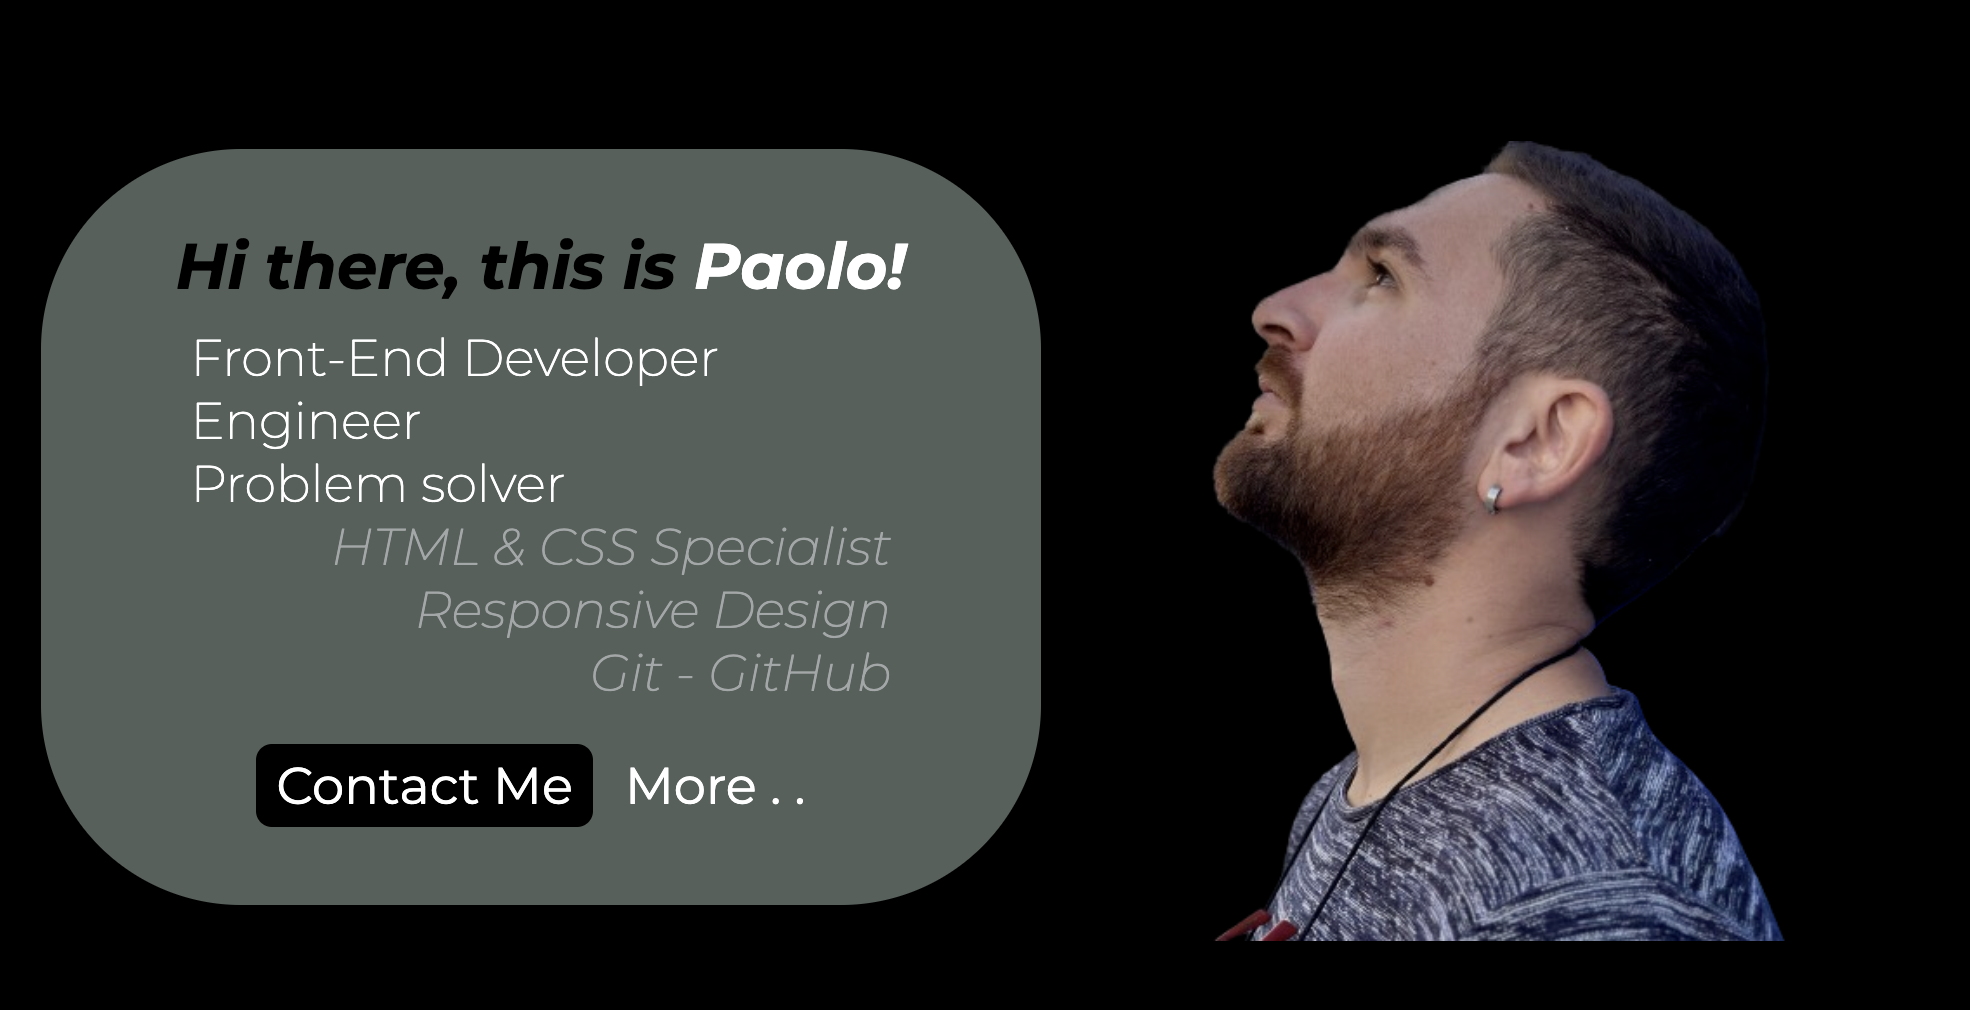
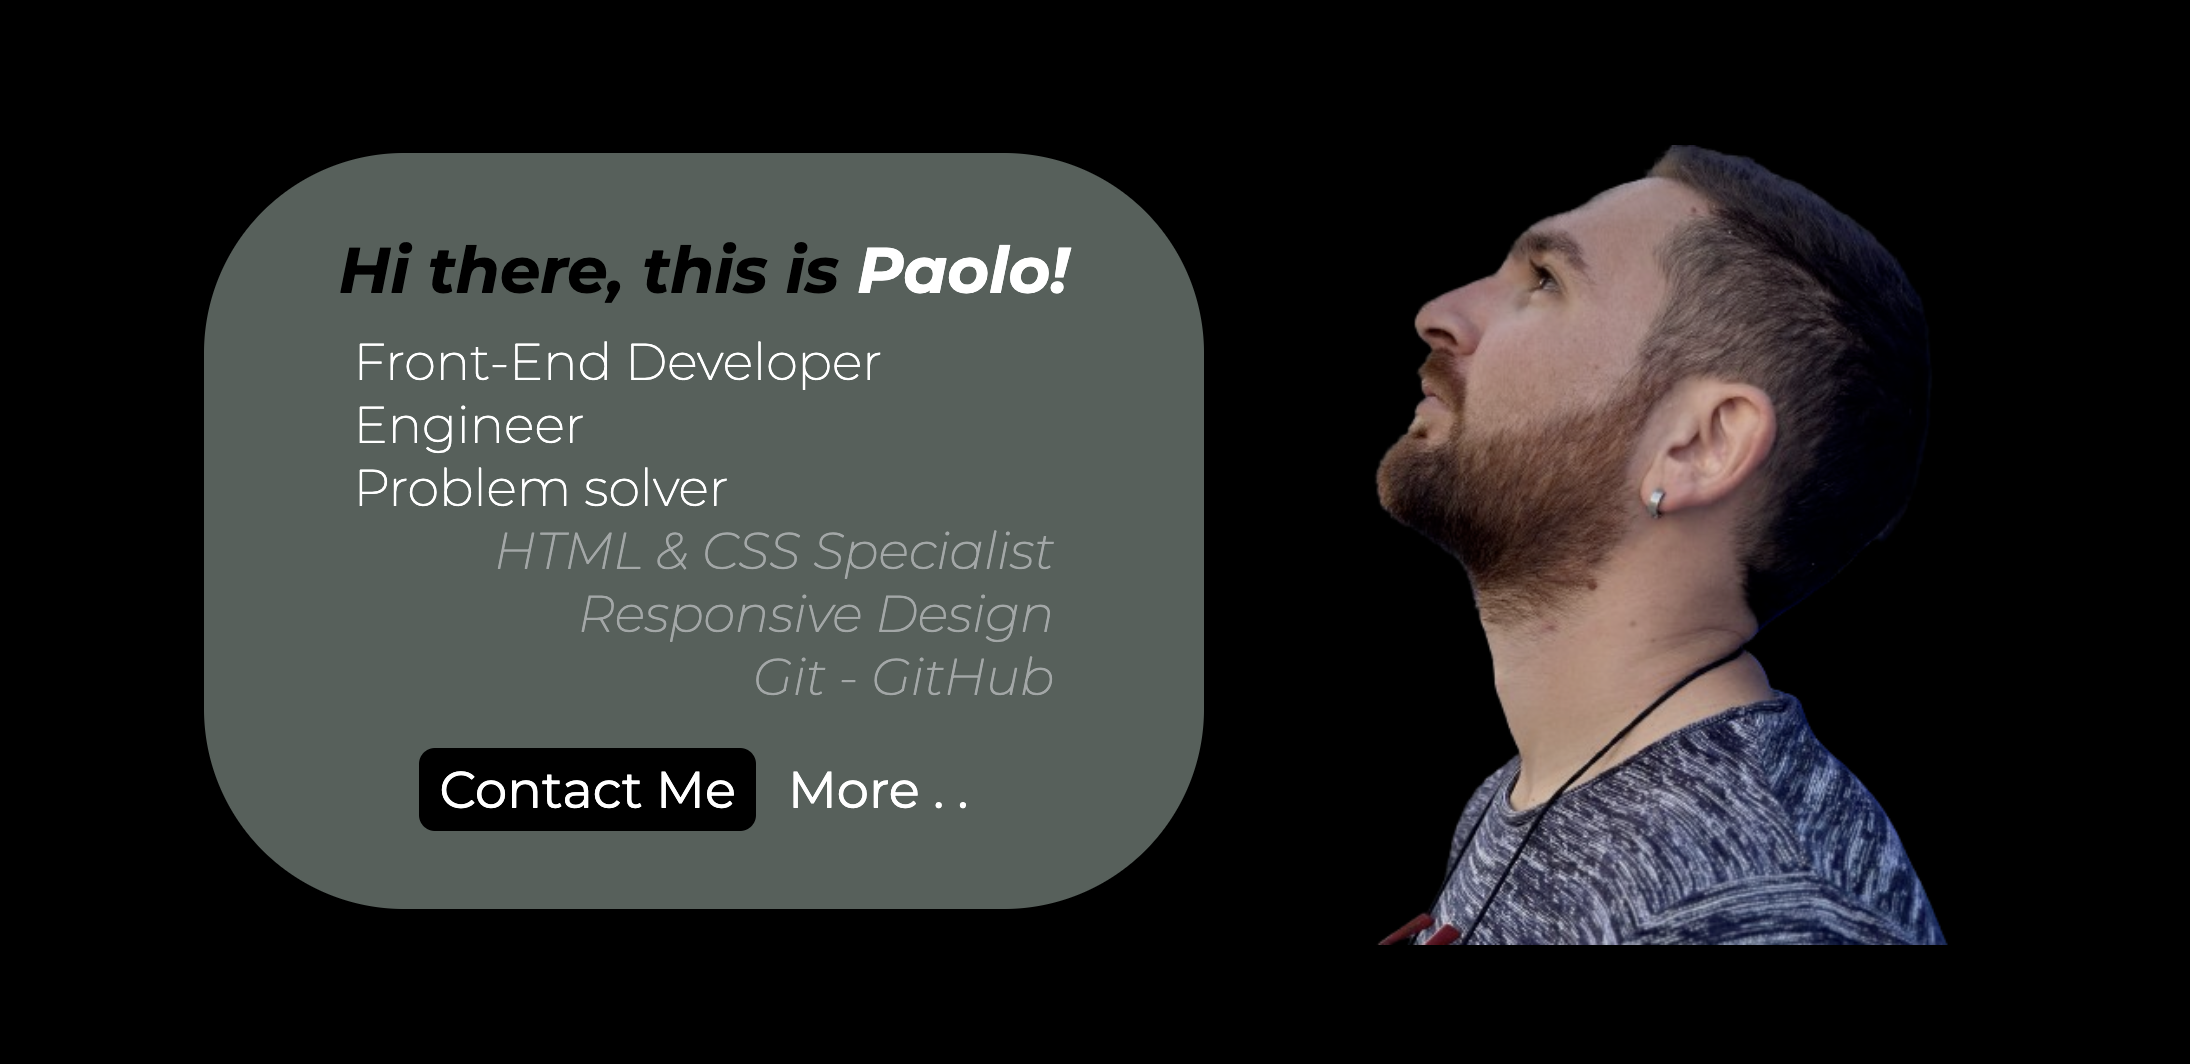
modifica colori per aumentare contrasto per accessibilita

diff --git a/assets/css/styles.scss b/assets/css/styles.scss
@@ -115,25 +115,27 @@ h1 {
      .bio-title {
         margin-bottom: 3%;
         color: $first-color;
+        font-style: italic;
      }
 
      .soft-skills{
         li{
             list-style-type: none;
-            font-weight: 200;
             font-size: 1.6rem;
-        }
-        .li-first-block {
-            padding-left: 2%;
-            color: $fourth-color;
-        }
-        .li-second-block {
-            color: $third-color;
-            text-align: right;
-            padding-right: 2%;
             font-style: oblique;
         }
      } 
+     .li-first-block {
+        padding-left: 2%;
+        color: $fourth-color;
+        font-weight: 300;
+    }
+    .li-second-block {
+        color: $first-color;
+        text-align: right;
+        padding-right: 2%;
+        font-weight: 400;
+    }
 
 .buttons-box {
     display: flex;
@@ -156,9 +158,9 @@ h1 {
      .contact-me-button{
         margin-right: 6px;
         background-color: $first-color;
-        color: $fourth-color;
+        color: $third-color;
         &:hover {
-            background-color: $third-color;
+            background-color: $second-color;
             transform: scale(1.2);
             color: $first-color;
          }
@@ -170,6 +172,9 @@ h1 {
             color: $first-color;
             transform: scale(1.2);
          }
+     }
+     .cv-button:hover{
+        background-color: $third-color;
      }
 
  .cv-link{

diff --git a/assets/css/styles.css b/assets/css/styles.css
@@ -113,22 +113,26 @@ h1 {
 .bio-title {
   margin-bottom: 3%;
   color: black;
+  font-style: italic;
 }
 
 .soft-skills li {
   list-style-type: none;
-  font-weight: 200;
   font-size: 1.6rem;
+  font-style: oblique;
 }
-.soft-skills .li-first-block {
+
+.li-first-block {
   padding-left: 2%;
   color: white;
+  font-weight: 300;
 }
-.soft-skills .li-second-block {
-  color: rgb(162, 167, 167);
+
+.li-second-block {
+  color: black;
   text-align: right;
   padding-right: 2%;
-  font-style: oblique;
+  font-weight: 400;
 }
 
 .buttons-box {
@@ -151,10 +155,10 @@ h1 {
 .contact-me-button {
   margin-right: 6px;
   background-color: black;
-  color: white;
+  color: rgb(162, 167, 167);
 }
 .contact-me-button:hover {
-  background-color: rgb(162, 167, 167);
+  background-color: rgb(85, 96, 91);
   transform: scale(1.2);
   color: black;
 }
@@ -165,6 +169,10 @@ h1 {
 .learn-more-button:hover {
   color: black;
   transform: scale(1.2);
+}
+
+.cv-button:hover {
+  background-color: rgb(162, 167, 167);
 }
 
 .cv-link {

diff --git a/index.html b/index.html
@@ -64,7 +64,7 @@
             <div class="bio-container" aria-roledescription="container for the main article">
                 <div class="bio-words-container">
                     <div class="bio-title" aria-roledescription="title of the main content">
-                        <h1><em>Hi there, this is <span class="my-name">Paolo!</span></em></h1>
+                        <h1>Hi there, this is <span class="my-name">Paolo!</span></h1>
                     </div>
                     <div class="soft-skills" aria-roledescription="list of skills">
                         <ul class="li-first-block">
